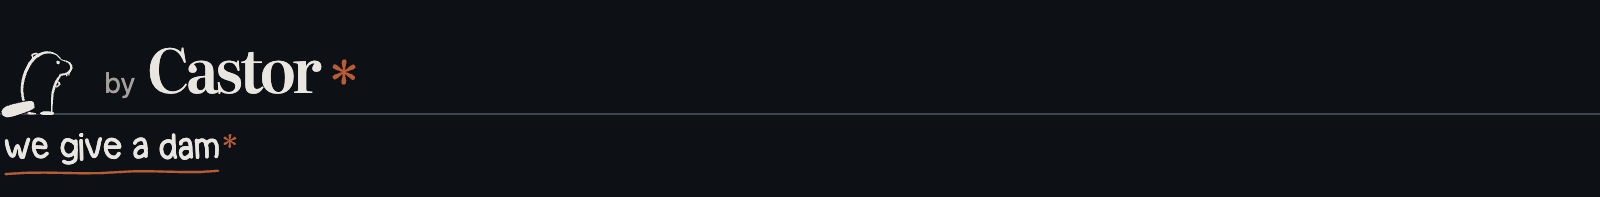
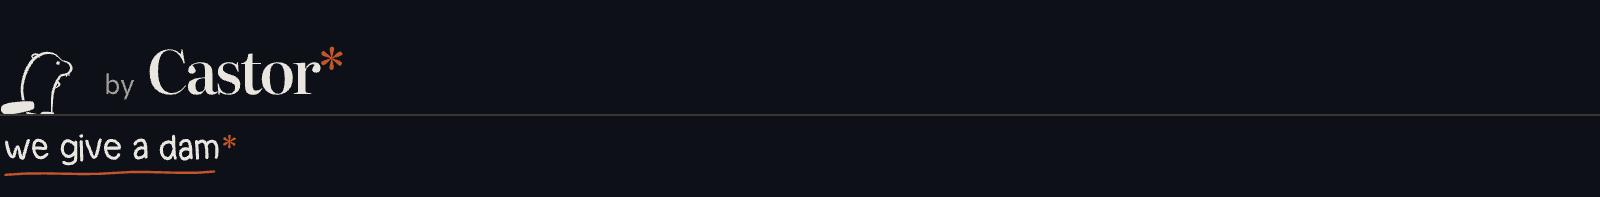
Match the README signature to the website and animate Chip
Assisted-by: GPT-6.1 Sol (Codex)

diff --git a/README.md b/README.md
@@ -75,7 +75,8 @@ TickTick Tasks for Garmin is independent and is not affiliated with TickTick, Ga
 <p>
   <a href="https://abcastor.com">
     <picture>
-      <source media="(prefers-color-scheme: dark)" srcset="docs/castor-footer-dark.png">
+      <source media="(prefers-color-scheme: dark)" srcset="docs/castor-footer-dark.svg">
+      <source media="(prefers-color-scheme: light)" srcset="docs/castor-footer-light.svg">
       <img src="docs/castor-footer-light.png" width="800" alt="Chip, the Castor beaver, by Castor, we give a dam">
     </picture>
   </a>
